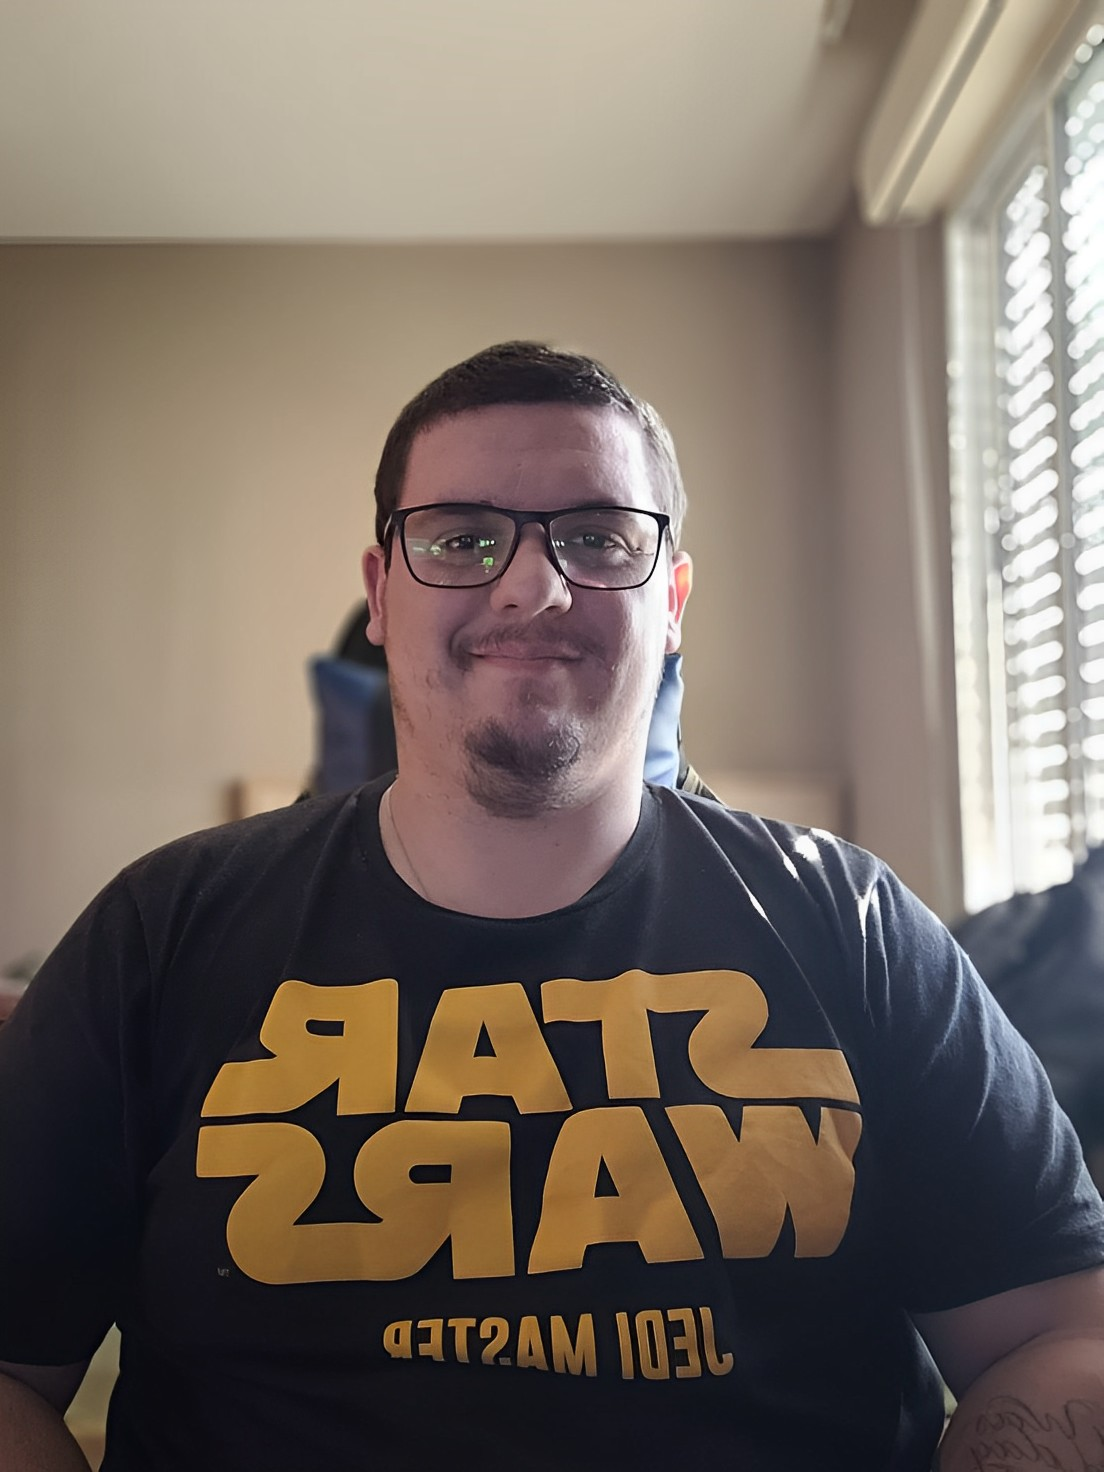
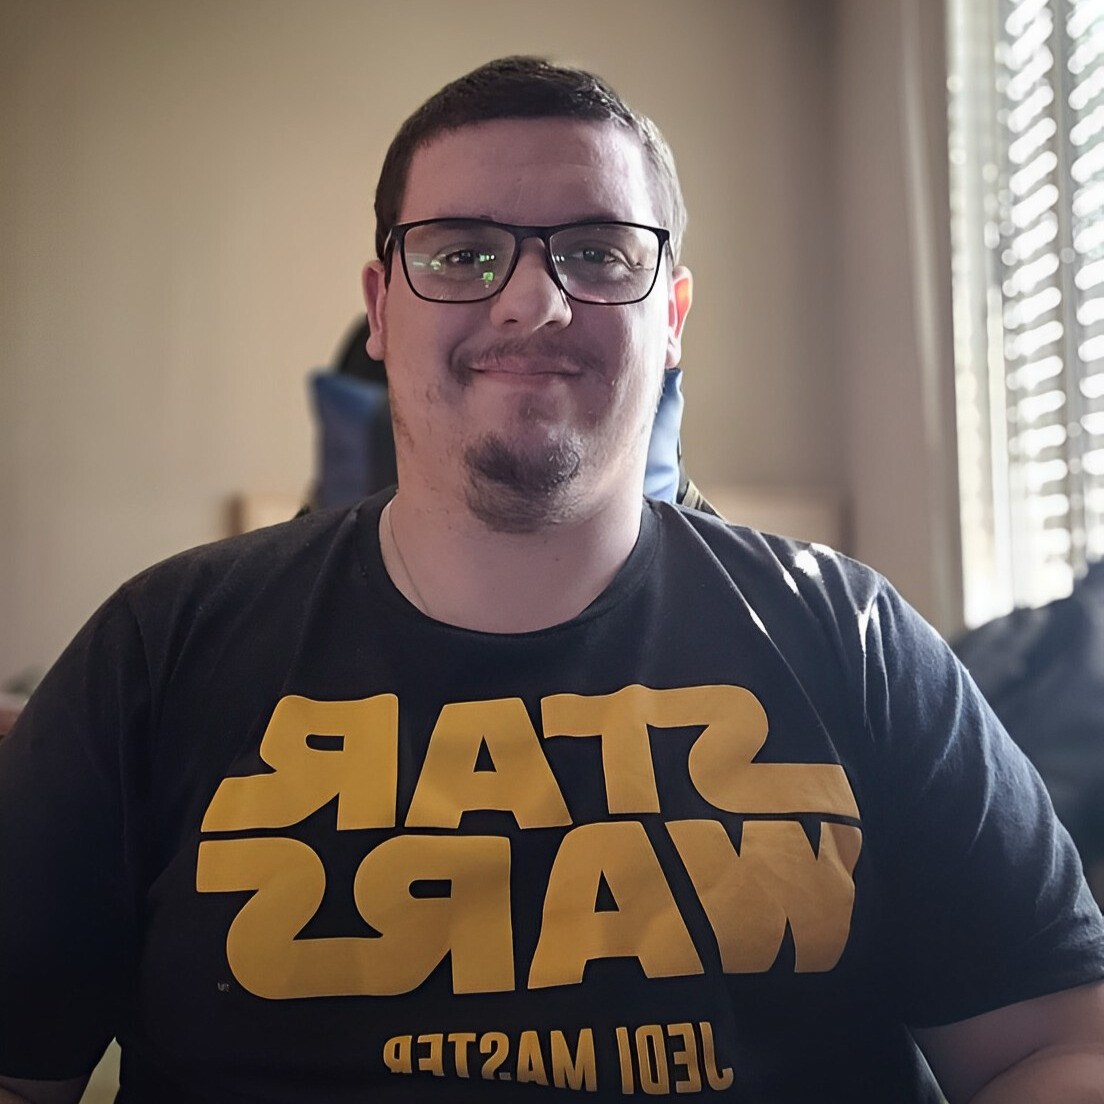
alteração nas cores e na foto de perfil

diff --git a/style.css b/style.css
@@ -7,12 +7,12 @@
 
 :root{
     --white: #fff;
-    --dark1: #5858f5;
-    --dark2: #0128b6;
+    --gray1: #b7bac3;
+    --gray2: #e4e4e4;
     --green1: #1B2223;
     --green2: #3A4F50;
     --dark5: #cbdad5;
-    --dark6: #3737b8;
+    --blue: #6e77ee;
     --cyan1: #0EF6CC;
 }
 
@@ -34,7 +34,7 @@
 
 
 body{
-    background-color: var(--green1);
+    background-color: var(--gray1);
     height: 100vh;
     font-family: 'Lato';
     margin: 0;
@@ -65,12 +65,12 @@ nav {
     display: flex;
     margin: 0 10px;
     text-decoration: none;
-    color: var(--white);
+    color: var(--gray1);
 }
 
 
 .nav-links:hover{
-    color: var(--green2);
+    color: var(--green1);
     transition: .4s;
     text-decoration: underline;
 }
@@ -134,12 +134,12 @@ section{
 
 h1{
     font-size: 4rem;
-    color: var(--white);
+    color: var(--gray1);
     letter-spacing: 8px;
 }
 
 strong{
-    color: var(--cyan1);
+    color: var(--green1);
 }
 
 .first-section p{
@@ -247,5 +247,5 @@ footer > div{
 }
 
 :is(.img-profile, .img-who-am-i){
-    box-shadow: 1px 1px 1px 1px var(--cyan1);
+    box-shadow: 1px 1px 1px 1px var(--green2);
 }

diff --git a/index.html b/index.html
@@ -15,7 +15,7 @@
         <div class="options-header">
             <nav>
                 <a href="#experiences" class="nav-links">Experiences</a>
-                <a href="#who-am-i" class="nav-links">Who am i</a>
+                <a href="#who-am-i" class="nav-links">About me</a>
                 <a href="#my-projects" class="nav-links">Projects</a>
                 <a href="#contact" class="nav-links">Contact</a>
             </nav>
@@ -46,7 +46,7 @@
         </section>
 
         <section id="who-am-i" class="third-section">
-            <h2 class="title">Who am i?</h2>
+            <h2 class="title">About me?</h2>
             <div>
                 <img class="img-who-am-i" src="./images/selfie.jpeg" alt="Imagem do Matheus Melo">
                 <p>My name is <strong>Matheus Melo da Silva</strong>, I was born and raised in Osório-Rio Grande do Sul, always
